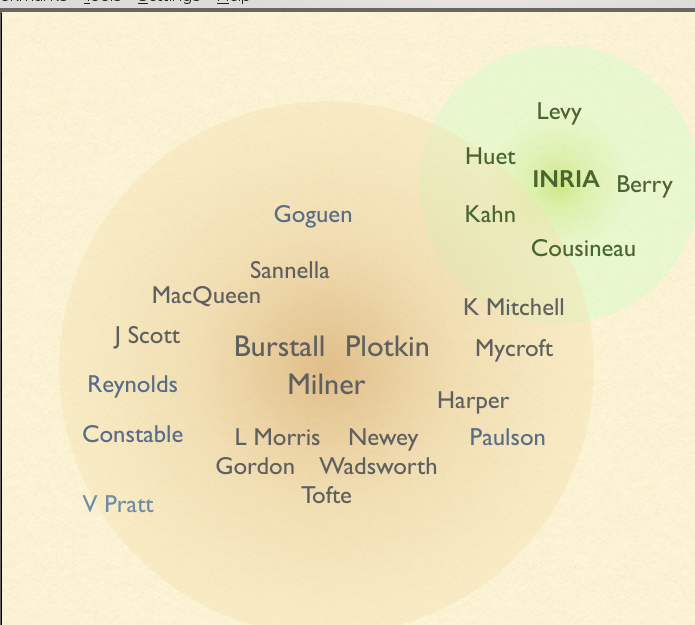
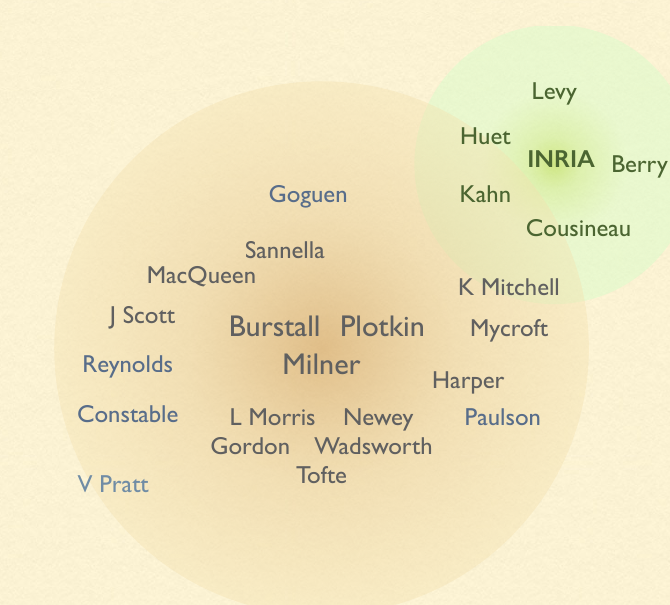
WIP

diff --git a/main.tex b/main.tex
@@ -52,14 +52,14 @@ language=haskell
 \sloppy
 
 %\maketitle
-%\tableofcontents
+\tableofcontents
 
 \newpage
-\section*{Введение}
+\section{Введение}
 
 \setlength{\unitlength}{1mm}
 \begin{picture}(160, 40)
-\put(20,30){\circle{1}}
+\put(20,30){\circle{1}}А
 \put(20,30){\circle{8}}
 \put(20,30){\circle{16}}
 \put(20,30){\circle{32}}
@@ -82,7 +82,8 @@ language=haskell
 \includegraphics[angle=90,scale=0.585]{Diagram.png}
 \end{center}
 
-Британские исследователи языков програмирования
+\section{Британские исследователи языков программирования}
+
 
 КАРТИНКА
 Макс Ньюман, Алан Тьюринг, Кристофер Стрэтчи, Петер Лондин, Код Бёрсталл и Марвин Прагнелл
@@ -91,7 +92,7 @@ language=haskell
 \includegraphics[angle=0,scale=0.585]{220px-Peter_Landin.png}
 История про Прэгнелла и о том как он познакомился в кафе с Лондиным и книгой Principia Mathematica. Неформальная группа читателей книг. 
 \begin{framed}
-Бёрсталл впоминает как спросил человека рядом в библиотеке про какую-то книгу, гно
+Бёрсталл вспоминает как спросил человека рядом в библиотеке про какую-то книгу, гно
 \end{framed}
 
 Так вот, семинар был Бёркберк колледже без разрешения руководителей колледжа. Прэгнелл нашел человека с ключом , который их впустит, где они заседали до позднего вечера. Вместе  со Стрэтчи, Лондиным и Бёрсталом туда заходил и Робин Милнер. Там они обсуждали вопросы логинки, теории категорий и кмпьютеров. Это вероятно первый раз когда они все встретились.” Так получился первый любительский undergreound семинар и компьютерах. Для рассказчика запомнилось как по-любительски всё было устроено, в отличие от того как это было сделано в штатах. И они были работающими пограммистами
@@ -110,7 +111,7 @@ CPL  =>  BCPL  =>  B  =>  C  =>  C++
 \begin{framed}
 Вот что пишет Водсворт о Стретчи:
 
-“Стретчи имел особое чутьё в тех случаях, когда что-то было сделано “правильно” -- в основном когда было достаточно просто и достаточно элегантно, что выглядеть интуитивно правильным -- и он презирал чересчур проработанные и умудренные методы который “кае какработали”. Его любимым принципом был такой: “Ты можешь затолкать на гору горошину носом, но это не будет являться правильным способом осуществления этого”. Я это называл “тестом Стретчи”.
+“Стретчи имел особое чутьё в тех случаях, когда что-то было сделано “правильно” -- в основном когда было достаточно просто и достаточно элегантно, что выглядеть интуитивно правильным -- и он презирал чересчур проработанные и умудренные методы который “кое-как работали”. Его любимым принципом был такой: “Ты можешь затолкать на гору горошину носом, но это не будет являться правильным способом осуществления этого”. Я это называл “тестом Стретчи”.
 ”
 \end{framed}
 %\begin{framed}
@@ -118,58 +119,65 @@ CPL  =>  BCPL  =>  B  =>  C  =>  C++
 %His elegance of Manor was accompanied by an elegance of thought and language which was a continual inspiration.
 %\end{framed}
 
+\subsection{Питер Лондин}
 Питер Лондин (Peter Landin) % Фотка была выше
 написал множество статей в 1960х годах.
 
-“Механическое вычисление выражений” (The mechanical evaluation of expressions, 1964) которые ввело поянтие SECD машины. Это не была  первая абстрактная машина в мире, он использовал идеи сообщества программистов на языке ALGOL из города Мюнхен. 
+В статье “Механическое вычисление выражений” (The mechanical evaluation of expressions, 1964) он ввел понятие SECD-машины. Это не была  первая абстрактная машина в мире, он использовал идеи сообщества программистов на языке ALGOL из города Мюнхен. 
 
 В статье "Соответсвие между языком ALGOL60 и лямбда-нотацией Чёрча: части 1 и 2" (“A correspondence between ALGOL 60 and Chuch’s Lambda-notation: Part I and Part II”, 1965 год) он ввел понятие потоков (streams), которые являются особого рода методом для осуществления ввода-вывода.
 
-В статье "Обобщение переходов и меток" ("A generalization of of Jumps and Labels”, 1965) он ввел понятие J-оператора, который является предшественником термина продолжение (continuation).
+В статье "Обобщение переходов и меток" ("A generalization of of Jumps and Labels”, 1965) он ввел понятие $J$-оператора, который является предшественником термина продолжение (continuation).
 
-Статья "The next 700 programming languages" 1966 года, описывает ISWIM язык, который оказал влияние на ML \footnote{найти ещё про это}.
+"The next 700 programming languages" 1966 года описывает ISWIM язык, который оказал влияние на ML \footnote{возможно, найти ещё про это}.
 
-В статье "Programs and their Proofs: An algebraic Approach, в соавторстве с Burstall, 1969) он предвосхитил появление алгебраических типов данных. В предыдщих работах, например про ISWIM, использовались некотрые дополнительные лингвистические конструкции для описания структур данных, которые не являлись частью языка .
+В соавторстве с Кодом Бёрнсталлом в 1969 году была опубликована статья "Programs and their Proofs: An Algebraic Approach" в которой П.Лондин предвосхитил появление алгебраических типов данных. В предыдущих работах, например про ISWIM, использовались некоторые дополнительные лингвистические конструкции для описания структур данных, которые не являлись частью языка.
 
-Pedagogical Algorithmic Language 
-PAL: an implementation of ISWIM at MIT (Arthur Evans). Разработка этой штуки шла  в течение всех 60х.: в начале Стретчи приезжал пару раз в MIT в начале 60х, но дело не сдвигалось пока в 1967 году Лэндин не поработал в MIT в течение года, и тогда PAL превратился в некоторую реализацию ISWIM. 
+В течение 1960х в MIT шла разработка Pedagogical Algorithmic Language (PAL) --- реализации ISWIM Артура Эванса. К.Стретчи приезжал пару раз в MIT в начале 60х, но дело не сдвигалось пока в 1967 году П.Лондин отправился работать в MIT, где в течение года он закончил PAL.
+%, получив превратился в некоторую реализацию ISWIM. 
 
-\chapter{Робин Милнер}
+\subsection{Робин Милнер}
 
-Как и К.Стретчи, и П.Лэндин, он не начинал как ученый -- был школьным учителем, а перед тем как попасть в научную среду работал программистом на компанию Ferranti.
+Как и К.Стретчи, и П.Лэндин, Р.Милнер не начинал как ученый --  вначале он работал школьным учителем, а перед тем как попасть в научную среду -- программистом на компанию Ferranti.
 \begin{framed}
 Из тьюринговской лекции:
 
-“Идея того, чтобы машина доказывала теоремы используя логику, и идея того, чтобы ипользуя логику понимать что машина делала…. Эта двойственность вдохновляла меня потому, что очевидно это было не очень просто”
+“Идея того, чтобы машина доказывала теоремы используя логику, и идея того, чтобы используя логику понимать что машина делала... Эта двойственность вдохновляла меня в том числе и потому, что это было просто”
 \end{framed}
 
-Принципы, которыми следовали все эти люди
-Стретчи, Лондин, Бёрсталл, Миленр ( и другие как Тони Хоар) основали Британскую традицию  в исследовании языков программирования
+%Принципы, которыми следовали все эти люди
+Кристофер Стретчи, Питер Лондин, Род Бёрнсталл, Робин Милнер (и другие, как Тони Хоар) основали британскую традицию в исследовании языков программирования и руководствовались в своей научной деятельности следующими принципами:
 
 \begin{itemize}
- \item Осмысление важности фундаментальных основания и семантики в изучении вычислений и программирования
- \item Поиск ясности, строчгости и элегантности путём использования математическихз идей и подходов, в частности из логики и алгебры.
+ \item Осмысление важности фундаментальных оснований и семантики при изучении вычислений и программирования.
+ \item Поиск ясности, строгости и элегантности путём использования математических идей и подходов, в частности из логики и алгебры.
 \end{itemize}
 
 Эти принципы особенно прижились в сообществе Эдинбурга.
  
 \section{Ситуация в Эдинбурге в конце 70х}
-Р.Милнер на системой доказательства теорем LCF которая заработала в 1978-79х годах. В неё ML использовался как метаязык. (написать ещё используя ссылку ). Осенью 1978 в Эдинбург приезжает Лука Карделли как grad student для получения Ph,D, . Роб Бёрсталл и Дэйв МакКуин работали на языком программирования HOPE -- чистым языком программирвоания, первым языков с алгебраическими типами данных.  Хотя за год до этого Бёрсталл сделал игрушечный язык программирвоания MPL, где АДТ таки были, но немного по-ругому к типам добавлялись их конструкторы.  
-В Эдинбурге было два подсообщества. Бёрсталовское было в Школе ИИ (School of Artificial Intelligence) на какой-то там площади. Милнеровское было в King’s Science Building на три миле южнее. И они сделали существенный барьер между этими двумя группами -- не так просто было сходить туда-сюда. Решение нашлось в лице Bob Boyer memorial society. Тот получал Ph.D. в Школее ИИ. И когда он покинул Эдинбург, его работу как организатора начали выполнять другие люди: народ собирался по вечерам дома у Робина Миленра  или в гостиной у кого-нибдуь друго.го. И это сближало два   сообщества. В конце концов посетители стали ядром Лаборатории Основ Информатики (Laboratory for Foundations of Computer Science, LFCS), хотя даборатория формально не сущестовала до 1986 года.  Кроме Робина Милнера, Бёрсталла и Плоткина этим занимался Мэтью Хеннеси .
+Робин Милнер работал над LCF -- системой доказательства теорем, которая заработала в 1978-79х годах. В ней ML использовался как метаязык. %(написать ещё используя ссылку ). 
+Осенью 1978 в Эдинбург приезжает Лука Карделли (Luca Cardelli) как для получения Ph.D. Род Берстолл и Дэйв МакКуин работали на языком программирования Hope -- чистым языком программирования, а также первым языком программирования с алгебраическими типами данных. Хотя за год до этого Род Берстолл сделал "игрушечный" язык программирования MPL, где абстрактные типы данных были, но в нём немного по-другому к типам добавлялись их конструкторы.  
 
-Связи в  те времена 
+В Эдинбурге были две исследовательские группы. Группа под руководством Рода Берстолла располагалась в Школе Искусственного Интеллекта (School of Artificial Intelligence) на какой-то там площади. Милнеровская --- в King’s Science Building на три миле южнее. Это расстояние создало существенный барьер между этими двумя группами -- не так просто было сходить туда-сюда. Решение нашлось в виде сообщества Роберта Бойера, который в те времена получал степень в Школе Искусственного Интеллекта.
+%Bob Boyer memorial society. 
+Когда он после защиты покинул Эдинбург, его работу как организатора начали выполнять другие люди: слушатели стали  собирался по вечерам дома у Робина Милнера  или в гостиной у кого-нибудь другого. Это сблизило два сообщества и в конце концов слушатели образовали основную часть Лаборатории Основ Информатики (Laboratory for Foundations of Computer Science, LFCS), хотя эта лаборатория формально не существовала до 1986 года.  Кроме Робина Милнера и Рода Берстолла и организационной деятельностью также занимался Мэьтю Хеннеси и Гордон Плоткин.
+% Плоткин получил степень в 1972 году под руководством Бёрсталла.
 
-\includegraphics[angle=0,scale=0.585]{two_circles.png}
+В 70х Эдинбург являлся в некотором смысле центром исследования языков программирования в Европе: в этом городе работали несколько ключевых фигур, а также первое поколение их учеников. Другой центр располагался в Париже в INRIA (Institut national de recherche en informatique et en automatique, Государственный институт исследований в информатике и автоматике). Между ними были налажены прочные связи: командировки и совместные исследования спонсировались государством.
 
-Как бы ценр вселенной. Три ключевых фигуры, а также первое поколение их учеников. Другое сообщество было в INRIA. Постоянные разъезды с финансированием за счет государства.
+\includegraphics[angle=0,scale=0.7]{two_circles.png}
 
-LCF/ML aka DEC10 ML (25:16---...)
+Самый первый ML, также известный как $DEC10 ML$, встраивался в систему LCF как метаязык. Логика Скотта в нём описывалася с помощью объектного языка PPLAMBDA. В ML поддерживались термы, формулы и теоремы, при этом теоремы являлись абстрактными типами и их конструирование из термов могло происходить только путём применения правил вывода. В языке присутствовала возможность преобразования 
+%LCF/ML aka (25:16---...)
+\begin{itemize}
 Встраивался в систему LCF как метаязык
 Включал в себя объектный язык PPLAMBDA (который использовался как оописание LCF логики Скотта). 
 Термы, формулы, теоремы 
 Ключевой особенностью было то, что теоремы были абстрактными типами и конструирование термов могло происзожить только путём применения правил вывода.
 Quotation/antiquotation в синтаксисе
 Тактики и тактики высшего порядка, которые комбинировали другие тактики -- дляэтого им был нужен функциональный язык пограммирования. Также был нужен сильно типизированный язык программирования, чтобы быть уверенными, что не существует обходного подхода для создания теорем
+\begin{itemize}
 
 Основные свойства LCF/ML
 \begin{itemize}
@@ -207,7 +215,7 @@ Ins -- local (inside) ⇒ local d1 in d2 end;
 Rec -- recusive
 With -- для особой формы абстрактных типов (объявления вида with t ⇔ ty)
 
-\chapter{VAX ML compiler (Эдинбург, 1980-1982)}
+\subsection{VAX ML compiler (Эдинбург, 1980-1982)}
 Запускался под операционной системой VAX/VMS.
 ЙЦеликом на паскале, включая рантайм
 Весь код компилровался в FAM (Functional abstract Machine).
@@ -302,7 +310,7 @@ Standard ML front end built for his Poly compiler
  \item MLton
 \end{itemize}
 
-\subsection{ Главные идеи в  Standard ML ‘90}
+\subsection{Главные идеи в  Standard ML ‘90}
 Let-полиморфизм, type inference, principal types: Newman (1943!), Curry (1969), Hindley (1969), Milner
 Algebraic data types, with clausal functions, case analysis via pattern-matching [from Hope]
 Modules with signatures, functors, sharing specifications, and generative structures (“strong structure sharing”) структуры  с  некоторой статической уникальной идентичностью, которые  можно было сравнивать, т.е. На этапе компиляции можно проверить, что структуры идентичны (равны). Там получалась очень сложна семантика, потому оно не стало особо популярно
